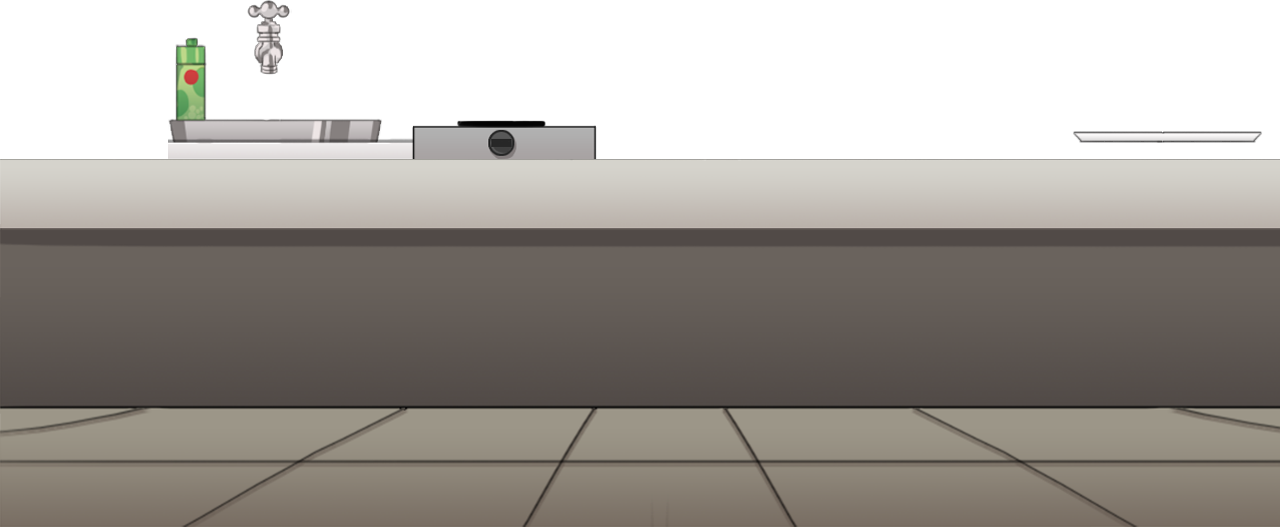
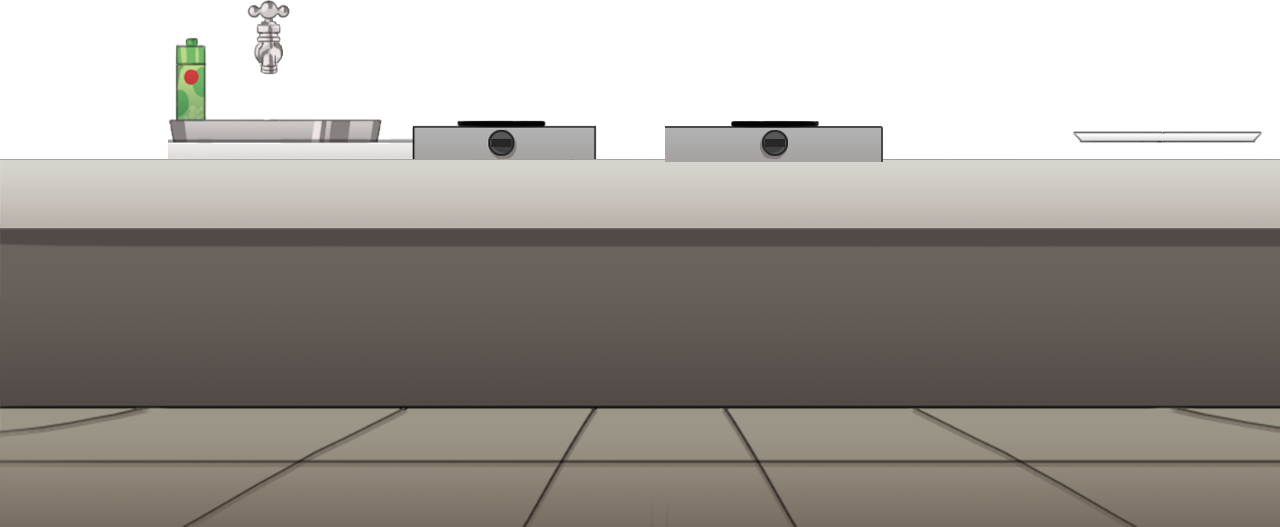
おやっさんの吹き出しが一瞬ちらつく問題が残っている

Changed region(s): [[0.5, 0.2125, 0.6875, 0.334]]

diff --git a/project/src/Class/BossController.hpp b/project/src/Class/BossController.hpp
@@ -24,9 +24,9 @@ private:
 	ECS::EntityManager& manager_;
 	void setComb(const int& num)
 	{
-		bossBalloon_ = ECS::GameEffectsArcheType::CreateBossBalloon("balloon", Vec2{ 300,140 }, 120, &manager_);
+		bossBalloon_ = ECS::GameEffectsArcheType::CreateBossBalloon("balloon", Vec2{ 280,140 }, 120, &manager_);
 		bossBalloon_->getComponent<ECS::Scale>().val = 1;
-		bossMessage_ = ECS::GameEffectsArcheType::CreateBossMessage("number", Vec2{ 150,120 }, ECS::Rectangle(0, 0, 50, 100), num, 120, &manager_);
+		bossMessage_ = ECS::GameEffectsArcheType::CreateBossMessage("number", Vec2{ 170,115 }, ECS::Rectangle(0, 0, 59, 75), num, 120, &manager_);
 	}
 public:
 	BossController(ECS::EntityManager& manager, int bpm, int beat, const std::string& soundName) :
@@ -35,7 +35,7 @@ public:
 	{
 		ResourceManager::GetGraph().loadDiv("Resource/image/chef.png","Boss",3,3,1,132,243);
 		ResourceManager::GetGraph().loadDiv("Resource/image/chef_face.png", "BossFace", 2,2, 1, 86, 70);
-		ResourceManager::GetGraph().load("Resource/image/number2.png", "number");//かり
+		ResourceManager::GetGraph().load("Resource/image/score_font.png", "number");//かり
 		ResourceManager::GetGraph().load("Resource/image/hukidasi.png", "balloon");//かり
 		bossBody_ = ECS::GameEffectsArcheType::CreateBossBody("Boss", Vec2{100.f,235.f}, bpm, beat, soundName, &manager_);
 		bossFace_ = ECS::GameEffectsArcheType::CreateBossFace("BossFace", Vec2{ 10.f,12.f }, &manager_);

diff --git a/project/src/GameController/Scene/Game.cpp b/project/src/GameController/Scene/Game.cpp
@@ -33,6 +33,7 @@ namespace Scene
 		ResourceManager::GetGraph().load("Resource/image/fade_black.png", "fade");
 		//鍋
 		ResourceManager::GetGraph().loadDiv("Resource/image/bg_nabe1.png", "nabe1", 8, 8, 1, 140, 148);
+		ResourceManager::GetGraph().loadDiv("Resource/image/bg_nabe2.png", "nabe2", 8, 8, 1, 186, 98);
 		ResourceManager::GetSound().load("Resource/sound/SE/onion.ogg", "onion", SoundType::SE);
 		//BPMアニメーションテストのため仮読み込み
 		ResourceManager::GetGraph().load("Resource/image/bg_back.png", "bg_back");
@@ -65,6 +66,8 @@ namespace Scene
 		ECS::ArcheType::CreateEntity("bg_table", Vec2(0.f, 193.f), *entityManager_, ENTITY_GROUP::BACK_OBJECT);
 		//鍋
 		ECS::GameEffectsArcheType::CreateSaucepan("nabe1", Vec2(431.f, 175.f), entityManager_);
+		auto nabe2 = ECS::GameEffectsArcheType::CreateSaucepan("nabe2", Vec2{ 720.f,217.f }, entityManager_);
+		nabe2->getComponent < ECS::Animator>().changeFrame(5);
 		//ファン
 		ResourceManager::GetGraph().load("Resource/image/bg_fan2.png", "fan");
 		ECS::GameEffectsArcheType::CreateFan("fan", Vec2{ 1173.f, 96.f }, entityManager_);

diff --git a/project/src/ArcheType/GameEffectsArcheType.hpp b/project/src/ArcheType/GameEffectsArcheType.hpp
@@ -191,11 +191,13 @@ namespace ECS
 		{
 			auto& e = entityManager->addEntity();
 			e.addComponent<Transform>().setPosition(pos.x, pos.y);
+			e.getComponent<Scale>().val = Vec2{ 0.f,0.f };
 			e.addComponent<Color>();
 			e.addComponent<AlphaBlend>();
 			e.addComponent<SpriteDraw>(graphicName);
 			e.addComponent<KillEntity>(lifeSpan);
 			e.addComponent<Canvas>();
+			e.addComponent<ExpandComponentSystem>(0.f, 1.f, 10.f);
 			e.addGroup(ENTITY_GROUP::UI);
 			return &e;
 		}
@@ -205,12 +207,14 @@ namespace ECS
 		{
 			auto& e = entityManager->addEntity();
 			e.addComponent<Transform>().setPosition(pos.x, pos.y);
+			e.getComponent<Scale>().val = Vec2{ 0.f,0.f };
 			e.addComponent<Color>();
 			e.addComponent<AlphaBlend>();
 			e.addComponent<Rectangle>(rectAngle);
 			e.addComponent<SpriteRectDraw>(graphicName);
-			e.addComponent<DrawFont2>(50.f, 100.f, combNum);
+			e.addComponent<DrawFont2>(59.f, 75.f, combNum);
 			e.addComponent<KillEntity>(lifeSpan);
+			e.addComponent<ExpandComponentSystem>(0.f, 1.f, 10.f);
 			e.addGroup(ENTITY_GROUP::UI);
 			return &e;
 		}
